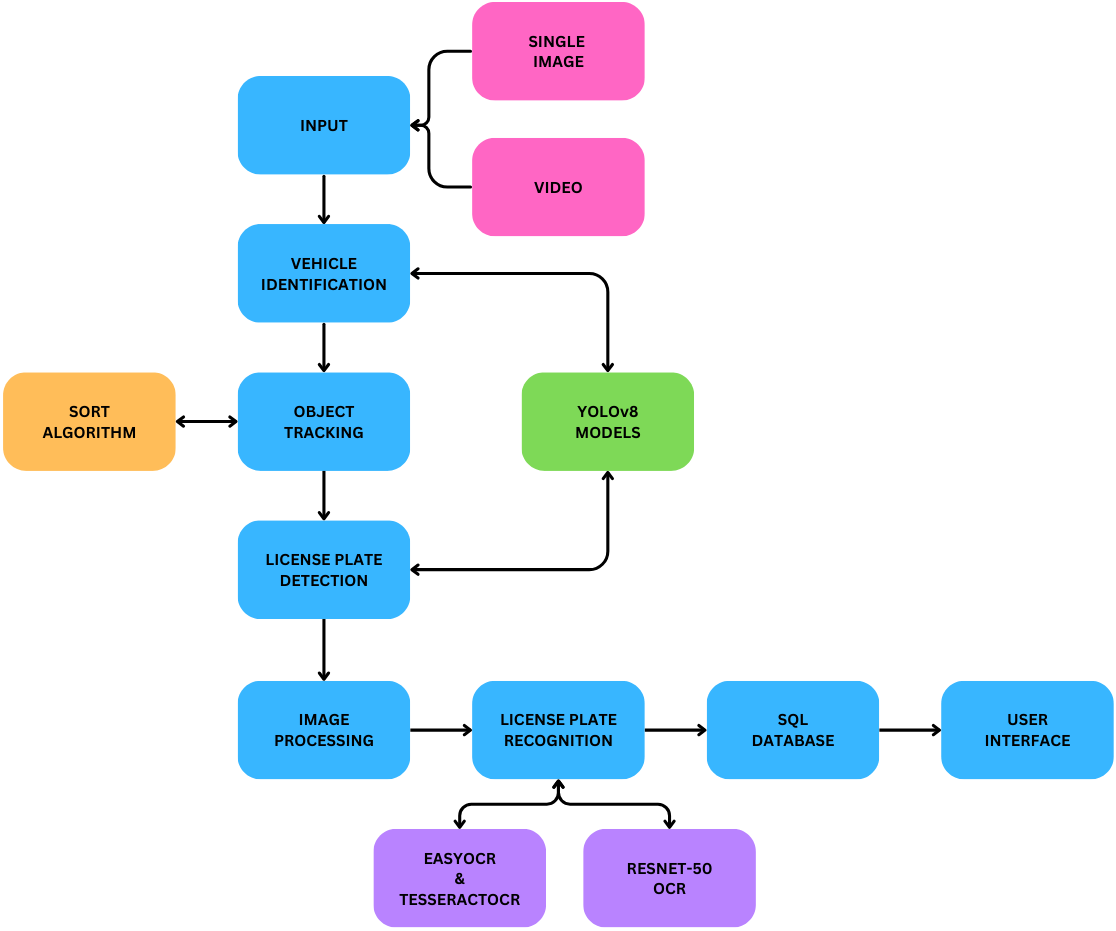
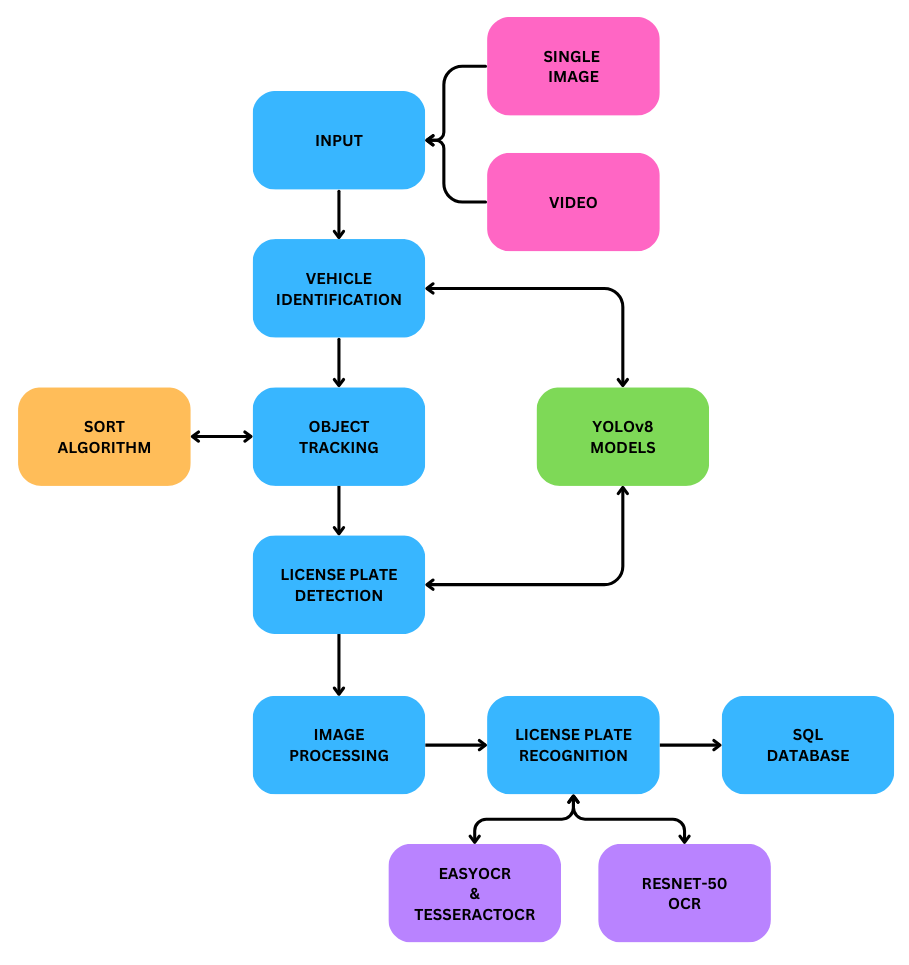
Made Changes in Readme and Flowchart

Changed region(s): [[0.0, 0.0, 1.0, 0.9968]]

diff --git a/README.md b/README.md
@@ -14,8 +14,6 @@ This project aims to analyze vehicle movement and parking within a college campu
   - [Image Processing Operations](#image-processing-operations)
   - [License Plate Recognition](#license-plate-recognition)
 - [SQL Database Integration](#sql-database-integration)
-- [Interface](#interface)
-- [Node.js Backend](#nodejs-backend)
 - [Installation](#installation)
 - [Usage](#usage)
 - [License](#license)
@@ -75,25 +73,6 @@ This project aims to analyze vehicle movement and parking within a college campu
   - `anpr`: Logs ANPR events with license plate and state information.
 - **Data Insertion Logic**: Updates or inserts data based on confidence scores and vehicle detection.
 
-## Interface
-
-- **Navigation Bar**: Access to Home, Records, and Feedback pages.
-- **Modal Login Form**: Seamless user login experience.
-- **Feedback Form**: Collects user inputs and suggestions.
-- **Team Section**: Showcases team member details.
-- **Footer**: Helpful links and contact information.
-- **Dynamic Table**: Admin can see the license plate credentials and the rest of the corresponding information in a tablular manner.
-
-## Node.js Backend
-
-- **Dependencies**:
-  - `"app": "^0.1.0"`
-  - `"ejs": "^3.1.9"`
-  - `"express": "^4.18.2"`
-  - `"mysql": "^2.18.1"`
-  - `"node": "^19.8.1"`
-- **Dev Dependencies**:
-  - `"nodemon": "^2.0.22"`
 - **Features**:
   - MySQL integration for CRUD operations.
   - HTTP request handling and static file serving.
@@ -103,8 +82,8 @@ This project aims to analyze vehicle movement and parking within a college campu
 
 1. Clone the repository:
    ```bash
-   git clone https://github.com/BlackReaper0/Intel-Unnati.git
-   cd Intel-Unnati
+   git clone https://github.com/BlackReaper0/ANPR-Research-Work.git
+   cd ANPR-Research-Work
    ```
 2. Create a Python Virtual Environment:
    ```bash
@@ -115,24 +94,18 @@ This project aims to analyze vehicle movement and parking within a college campu
    .\environment_name\Scripts\activate
    ```
 4. Install the required Python packages:
+
    ```bash
    pip install -r requirements.txt
    ```
-5. Install the required Node.js packages:
-   ```bash
-   npm install
-   ```
-6. Now Setup a Database and Create the required Tables according to the give schema:
 
-7. Change the Database Credentials in connection.js and in the main.py files.
+5. Now Setup a Database and Create the required Tables according to the give schema:
+
+6. Change the Database Credentials in connection.js and in the main.py files.
 
 ## Usage
 
 1. Run the python scripts for ANPR system:
    ```bash
    python .\main_image.py
-   ```
-2. Start the Node.js server:
-   ```bash
-   nodemon .\index.js
    ```
